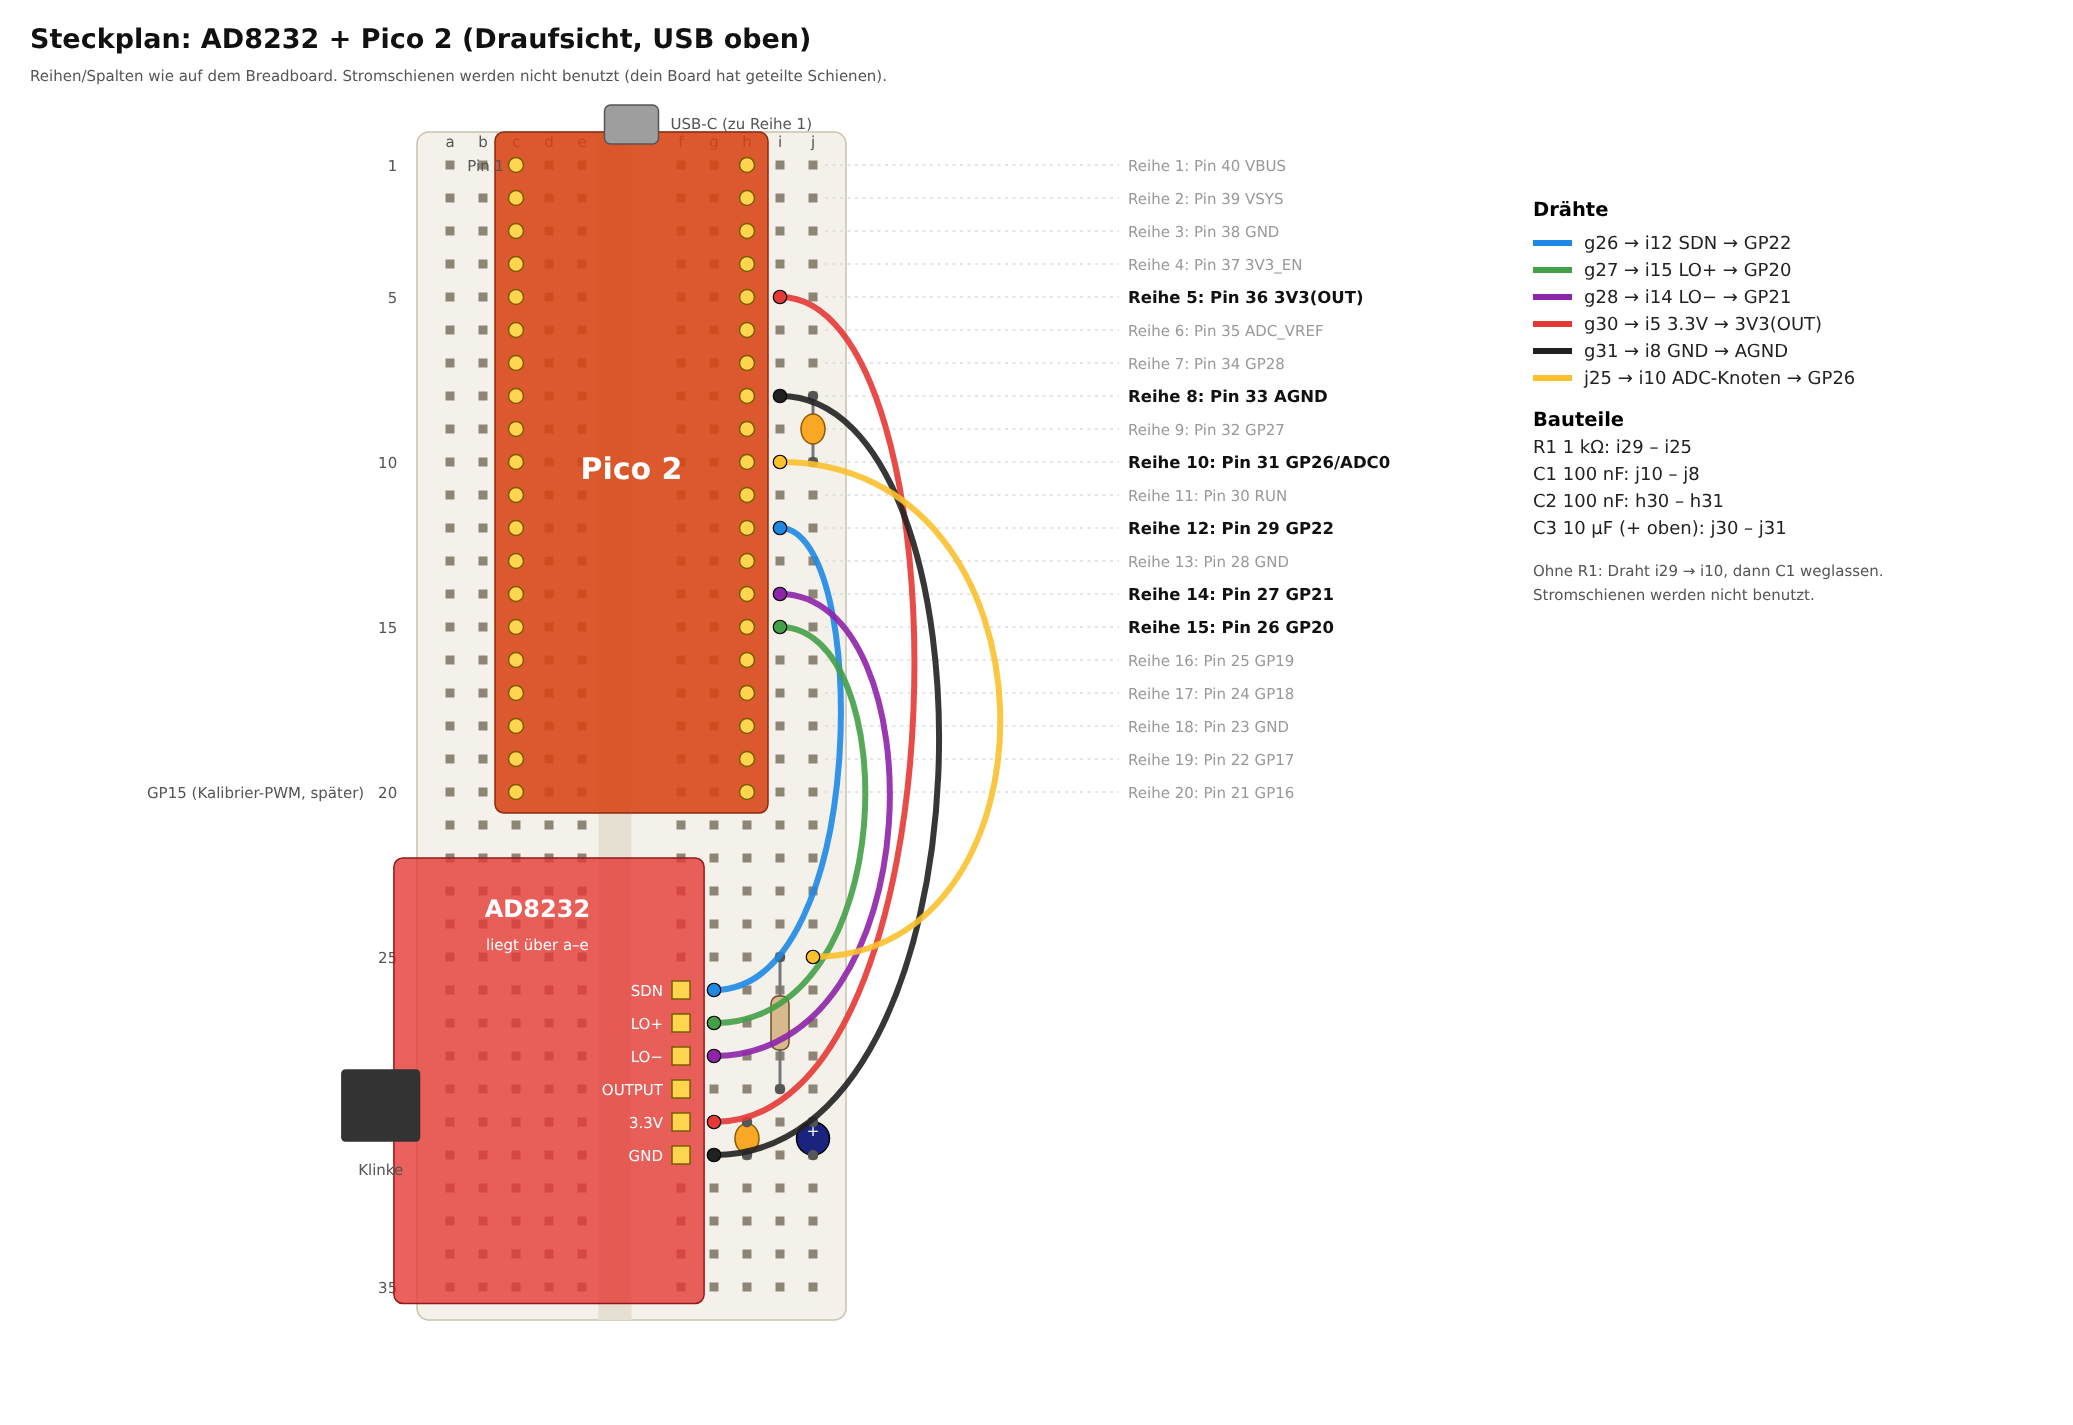
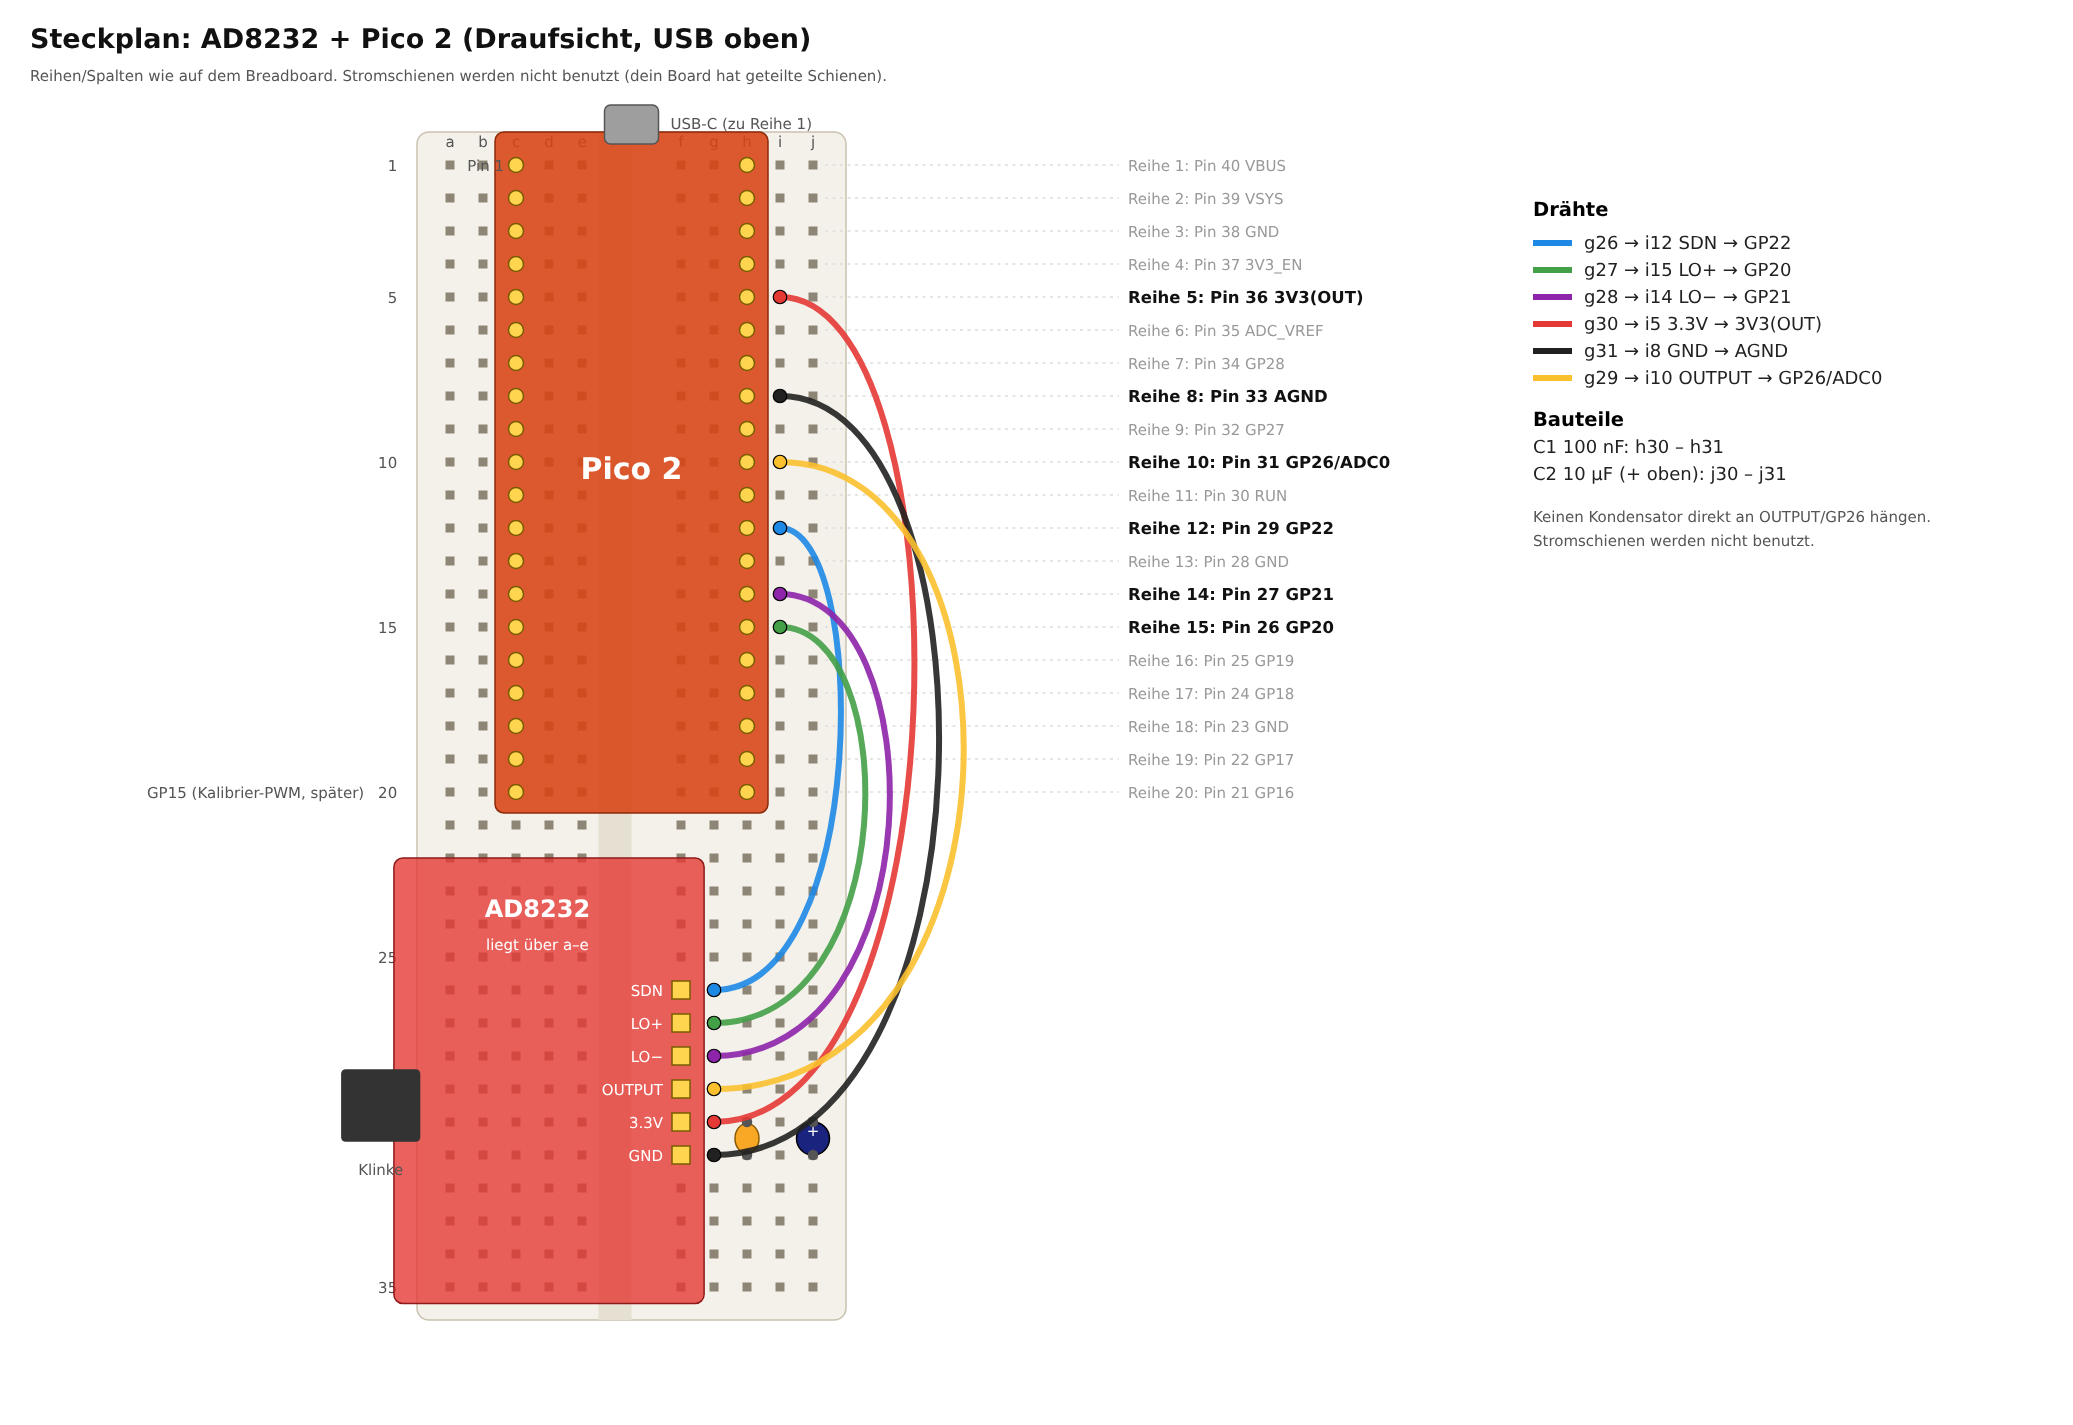
Steckplan ohne R1/C1: AD8232-Ausgang direkt an GP26
Der Ausgang geht per Draht g29 -> i10 an den ADC. Der Kondensator am ADC-Pin entfällt
mit, weil er ohne Vorwiderstand den Ausgangsverstärker des AD8232 belasten würde.
Abblockkondensatoren heißen jetzt C1 (100 nF) und C2 (10 µF).

Claude-Session: https://claude.ai/code/session_01CJnMEzkrz7v5Atv2XyFAQ1

diff --git a/tools/breadboard_svg.py b/tools/breadboard_svg.py
@@ -41,14 +41,12 @@ WIRES = [
     (("g", 28), ("i", 14), "#8e24aa", "LO− → GP21"),
     (("g", 30), ("i", 5), "#e53935", "3.3V → 3V3(OUT)"),
     (("g", 31), ("i", 8), "#212121", "GND → AGND"),
-    (("j", 25), ("i", 10), "#fbc02d", "ADC-Knoten → GP26"),
+    (("g", 29), ("i", 10), "#fbc02d", "OUTPUT → GP26/ADC0"),
 ]
 # (Bauteil, von, nach, Beschriftung)
 PARTS = [
-    ("R", ("i", 29), ("i", 25), "R1 1 kΩ"),
-    ("C", ("j", 10), ("j", 8), "C1 100 nF"),
-    ("C", ("h", 30), ("h", 31), "C2 100 nF"),
-    ("E", ("j", 30), ("j", 31), "C3 10 µF (+ oben)"),
+    ("C", ("h", 30), ("h", 31), "C1 100 nF"),
+    ("E", ("j", 30), ("j", 31), "C2 10 µF (+ oben)"),
 ]
 
 
@@ -217,7 +215,7 @@ def svg() -> str:
         )
     y += 18 + len(PARTS) * 18 + 10
     out.append(
-        f'<text x="{lx}" y="{y}" class="small">Ohne R1: Draht i29 → i10, dann C1 weglassen.</text>'
+        f'<text x="{lx}" y="{y}" class="small">Keinen Kondensator direkt an OUTPUT/GP26 hängen.</text>'
     )
     out.append(
         f'<text x="{lx}" y="{y + 16}" class="small">Stromschienen werden nicht benutzt.</text>'

diff --git a/docs/AUFBAU.md b/docs/AUFBAU.md
@@ -32,7 +32,7 @@ Die Stromschienen werden **nicht** verwendet. Dein Breadboard hat in der Mitte g
 | SDN | g26 | GP22 | i12 | 29 |
 | LO+ | g27 | GP20 | i15 | 26 |
 | LO− | g28 | GP21 | i14 | 27 |
-| OUTPUT | über R1 (i29 → i25), dann Draht j25 | GP26 / ADC0 | i10 | 31 |
+| OUTPUT | g29 | GP26 / ADC0 | i10 | 31 |
 | 3.3V | g30 | 3V3(OUT) | i5 | 36 |
 | GND | g31 | AGND | i8 | 33 |
 
@@ -40,14 +40,13 @@ Die Stromschienen werden **nicht** verwendet. Dein Breadboard hat in der Mitte g
 
 | Bauteil | Wert | Löcher | Zweck |
 |---|---|---|---|
-| R1 | 1 kΩ | i29 – i25 | entkoppelt den AD8232-Ausgang vom Kondensator am ADC |
-| C1 | 100 nF Keramik | j10 – j8 | Tiefpass ~1,6 kHz direkt am ADC-Pin, puffert die Abtastung |
-| C2 | 100 nF Keramik | h30 – h31 | Abblockkondensator am AD8232 |
-| C3 | 10 µF (Elko: + an j30) | j30 – j31 | Abblockkondensator am AD8232 |
+| C1 | 100 nF Keramik | h30 – h31 | Abblockkondensator am AD8232 |
+| C2 | 10 µF (Elko: + an j30) | j30 – j31 | Abblockkondensator am AD8232 |
 
-R1 und C1 sind optional. Ohne sie einfach einen Draht von **i29 nach i10** stecken und C1 weglassen.
-Den Kondensator nie ohne R1 direkt an den AD8232-Ausgang hängen, das kann den Ausgangsverstärker
-zum Schwingen bringen.
+Der AD8232-Ausgang geht direkt an den ADC, ohne RC-Glied. Das reicht: Das Board filtert selbst bei
+~40 Hz, und die Mittelung über 64 ADC-Werte unterdrückt hochfrequente Einstreuung zusätzlich.
+Keinen Kondensator direkt zwischen OUTPUT/GP26 und GND hängen: Ohne Vorwiderstand kann das den
+Ausgangsverstärker des AD8232 zum Schwingen bringen.
 
 ### Prüfen vor dem ersten Einschalten
 

diff --git a/PLAN.md b/PLAN.md
@@ -45,7 +45,7 @@ Die Pin-Nummern beziehen sich auf das **offizielle Pico-2-Layout**. Das Board is
 |---|---|---|---|
 | GND | AGND | 33 | Analoge Masse, Bezug des ADC |
 | 3.3V | 3V3(OUT) | 36 | Ratiometrisch: AD8232 und ADC-Referenz hängen an derselben 3,3-V-Schiene |
-| OUTPUT | GP26 / ADC0 | 31 | Optional 1 kΩ in Reihe + 100 nF nach AGND direkt am Pin (fc ≈ 1,6 kHz, gegen HF-Einstreuung) |
+| OUTPUT | GP26 / ADC0 | 31 | Direkt, ohne RC-Glied; Anti-Aliasing übernehmen der 40-Hz-Tiefpass des Boards und die 64-fach-Mittelung |
 | LO+ | GP20 | 26 | Lead-off-Erkennung, digitaler Ausgang des AD8232 |
 | LO− | GP21 | 27 | dito |
 | SDN | GP22 | 29 | Wird von der Firmware auf High gelegt; Low schaltet den AD8232 ab (später fürs Akku-Sparen) |
